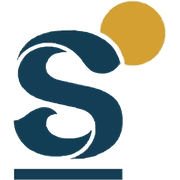
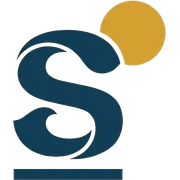
Sudcalia: usar los PNG oficiales como logotipos del sitio
Reemplaza las versiones WebP (sacadas del SVG trazado) por los PNG
originales, que son más nítidos. Al blanco del fondo y de los huecos
de las letras se le dio transparencia; los blancos del diseño, como
el triángulo de Play, las perforaciones y las hojas del libro, se
conservan. Favicon e ícono para iPhone salen del mismo PNG.

Claude-Session: https://claude.ai/code/session_01DFYdjbPiCd73oKEhiD5LBw

diff --git a/sudcalia/index.html b/sudcalia/index.html
@@ -17,7 +17,7 @@
 <a class="oculto" href="#contenido">Saltar al contenido</a>
 <header class="cabecera">
   <div class="contenedor">
-    <a class="marca" href="index.html"><img src="assets/logos/sudcalia-simbolo.webp" alt=""><span>Sudcalia</span></a>
+    <a class="marca" href="index.html"><img src="assets/logos/sudcalia-simbolo.png" alt=""><span>Sudcalia</span></a>
     <button class="menu-boton" aria-expanded="false" aria-controls="menu">Menú</button>
     <ul class="menu" id="menu"><li><a href="index.html" aria-current="page">Inicio</a></li><li><a href="ediciones.html">Ediciones</a></li><li><a href="estudios.html">Estudios</a></li><li><a href="play.html">Play</a></li><li><a href="games.html">Games</a></li><li><a href="https://rhinobuild.github.io" target="_blank" rel="noopener">RHINOBUILD</a></li></ul>
   </div>
@@ -31,7 +31,7 @@
       <p class="lead">Sudcalia reúne libros, series animadas, videojuegos y software para empresas. Cinco líneas nacidas frente al Mar de Cortés.</p>
       <div class="botones"><a class="boton" href="#lineas">Conoce Sudcalia</a><a class="boton secundario" href="#registro">Recibe novedades</a></div>
     </div>
-    <img class="simbolo" src="assets/logos/sudcalia-simbolo.webp" alt="Símbolo de Sudcalia: una S azul con un sol dorado">
+    <img class="simbolo" src="assets/logos/sudcalia-simbolo.png" alt="Símbolo de Sudcalia: una S azul con un sol dorado">
   </div>
 </section>
 
@@ -39,10 +39,10 @@
   <div class="contenedor">
     <div class="intro"><span class="etiqueta">Nuestras líneas</span><h2>Una casa, cinco maneras de contar y construir.</h2><p class="suave">Cada línea tiene su propio estilo, pero todas comparten el mismo sol.</p></div>
     <div class="rejilla cinco">
-      <a class="tarjeta" href="ediciones.html"><div class="logo" style="background:#F7F1E3"><img src="assets/logos/ediciones-simbolo.webp" alt=""></div><span class="estado activo">Saga terminada</span><h3>Sudcalia Ediciones</h3><p>Libros propios. Empezamos con La Saga de los Robles Eternos: cuatro libros y el primero gratis.</p><span class="ir">Ver la saga →</span></a>
-      <a class="tarjeta" href="estudios.html"><div class="logo" style="background:#FBF4EC"><img src="assets/logos/estudios-simbolo.webp" alt=""></div><span class="estado">En producción</span><h3>Sudcalia Estudios</h3><p>Series y videonovelas animadas. Aquí se hacen las historias.</p><span class="ir">Ver el estudio →</span></a>
-      <a class="tarjeta" href="play.html"><div class="logo" style="background:#0C0F14"><img src="assets/logos/play-simbolo.webp" alt=""></div><span class="estado">Próximamente</span><h3>Sudcalia Play</h3><p>Nuestra plataforma para ver las series de Estudios, en cualquier pantalla.</p><span class="ir">Conocer Play →</span></a>
-      <a class="tarjeta" href="games.html"><div class="logo" style="background:#2B0F2E"><img src="assets/logos/games-simbolo.webp" alt=""></div><span class="estado">Próximamente</span><h3>Sudcalia Games</h3><p>Juegos cortos para Android. Partidas rápidas, pique largo.</p><span class="ir">Ver Games →</span></a>
+      <a class="tarjeta" href="ediciones.html"><div class="logo" style="background:#F7F1E3"><img src="assets/logos/ediciones-simbolo.png" alt=""></div><span class="estado activo">Saga terminada</span><h3>Sudcalia Ediciones</h3><p>Libros propios. Empezamos con La Saga de los Robles Eternos: cuatro libros y el primero gratis.</p><span class="ir">Ver la saga →</span></a>
+      <a class="tarjeta" href="estudios.html"><div class="logo" style="background:#FBF4EC"><img src="assets/logos/estudios-simbolo.png" alt=""></div><span class="estado">En producción</span><h3>Sudcalia Estudios</h3><p>Series y videonovelas animadas. Aquí se hacen las historias.</p><span class="ir">Ver el estudio →</span></a>
+      <a class="tarjeta" href="play.html"><div class="logo" style="background:#0C0F14"><img src="assets/logos/play-simbolo.png" alt=""></div><span class="estado">Próximamente</span><h3>Sudcalia Play</h3><p>Nuestra plataforma para ver las series de Estudios, en cualquier pantalla.</p><span class="ir">Conocer Play →</span></a>
+      <a class="tarjeta" href="games.html"><div class="logo" style="background:#2B0F2E"><img src="assets/logos/games-simbolo.png" alt=""></div><span class="estado">Próximamente</span><h3>Sudcalia Games</h3><p>Juegos cortos para Android. Partidas rápidas, pique largo.</p><span class="ir">Ver Games →</span></a>
       <a class="tarjeta" href="https://rhinobuild.github.io" target="_blank" rel="noopener"><div class="logo" style="background:#fff"><img src="assets/logos/rhinobuild.jpg" alt="" style="height:auto;width:92%"></div><span class="estado activo">Activo</span><h3>RHINOBUILD</h3><p>Plataformas digitales y software de Recursos Humanos para empresas. Una empresa Sudcalia.</p><span class="ir">Ir a RHINOBUILD ↗</span></a>
     </div>
   </div>

diff --git a/sudcalia/404.html b/sudcalia/404.html
@@ -17,13 +17,13 @@
 <a class="oculto" href="#contenido">Saltar al contenido</a>
 <header class="cabecera">
   <div class="contenedor">
-    <a class="marca" href="index.html"><img src="assets/logos/sudcalia-simbolo.webp" alt=""><span>Sudcalia</span></a>
+    <a class="marca" href="index.html"><img src="assets/logos/sudcalia-simbolo.png" alt=""><span>Sudcalia</span></a>
     <button class="menu-boton" aria-expanded="false" aria-controls="menu">Menú</button>
     <ul class="menu" id="menu"><li><a href="index.html">Inicio</a></li><li><a href="ediciones.html">Ediciones</a></li><li><a href="estudios.html">Estudios</a></li><li><a href="play.html">Play</a></li><li><a href="games.html">Games</a></li><li><a href="https://rhinobuild.github.io" target="_blank" rel="noopener">RHINOBUILD</a></li></ul>
   </div>
 </header>
 <main id="contenido">
-<section class="heroe"><div class="contenedor"><div><span class="etiqueta">Error 404</span><h1>Esta página se fue con la marea.</h1><p class="lead">No encontramos lo que buscabas, pero el sol sigue en su lugar.</p><a class="boton" href="index.html">Volver al inicio</a></div><img class="simbolo" src="assets/logos/sudcalia-simbolo.webp" alt=""></div></section>
+<section class="heroe"><div class="contenedor"><div><span class="etiqueta">Error 404</span><h1>Esta página se fue con la marea.</h1><p class="lead">No encontramos lo que buscabas, pero el sol sigue en su lugar.</p><a class="boton" href="index.html">Volver al inicio</a></div><img class="simbolo" src="assets/logos/sudcalia-simbolo.png" alt=""></div></section>
 </main>
 <footer class="pie">
   <div class="contenedor">

diff --git a/sudcalia/estudios.html b/sudcalia/estudios.html
@@ -17,7 +17,7 @@
 <a class="oculto" href="#contenido">Saltar al contenido</a>
 <header class="cabecera">
   <div class="contenedor">
-    <a class="marca" href="index.html"><img src="assets/logos/estudios-simbolo.webp" alt=""><span>Sudcalia<small>Estudios</small></span></a>
+    <a class="marca" href="index.html"><img src="assets/logos/estudios-simbolo.png" alt=""><span>Sudcalia<small>Estudios</small></span></a>
     <button class="menu-boton" aria-expanded="false" aria-controls="menu">Menú</button>
     <ul class="menu" id="menu"><li><a href="index.html">Inicio</a></li><li><a href="ediciones.html">Ediciones</a></li><li><a href="estudios.html" aria-current="page">Estudios</a></li><li><a href="play.html">Play</a></li><li><a href="games.html">Games</a></li><li><a href="https://rhinobuild.github.io" target="_blank" rel="noopener">RHINOBUILD</a></li></ul>
   </div>
@@ -31,7 +31,7 @@
       <p class="lead">Series y videonovelas animadas, producidas en Baja California Sur. Nuestro primer proyecto: llevar La Saga de los Robles Eternos a la pantalla.</p>
       <div class="botones"><a class="boton" href="#proyecto">Ver el proyecto</a><a class="boton secundario" href="#registro">Seguir la producción</a></div>
     </div>
-    <img class="simbolo" src="assets/logos/estudios-simbolo.webp" alt="Símbolo de Sudcalia Estudios">
+    <img class="simbolo" src="assets/logos/estudios-simbolo.png" alt="Símbolo de Sudcalia Estudios">
   </div>
 </section>
 <section id="proyecto" class="banda">

diff --git a/sudcalia/ediciones.html b/sudcalia/ediciones.html
@@ -17,7 +17,7 @@
 <a class="oculto" href="#contenido">Saltar al contenido</a>
 <header class="cabecera">
   <div class="contenedor">
-    <a class="marca" href="index.html"><img src="assets/logos/ediciones-simbolo.webp" alt=""><span>Sudcalia<small>Ediciones</small></span></a>
+    <a class="marca" href="index.html"><img src="assets/logos/ediciones-simbolo.png" alt=""><span>Sudcalia<small>Ediciones</small></span></a>
     <button class="menu-boton" aria-expanded="false" aria-controls="menu">Menú</button>
     <ul class="menu" id="menu"><li><a href="index.html">Inicio</a></li><li><a href="ediciones.html" aria-current="page">Ediciones</a></li><li><a href="estudios.html">Estudios</a></li><li><a href="play.html">Play</a></li><li><a href="games.html">Games</a></li><li><a href="https://rhinobuild.github.io" target="_blank" rel="noopener">RHINOBUILD</a></li></ul>
   </div>
@@ -31,7 +31,7 @@
       <p class="lead">Cuatro libros y una misma lluvia. La saga empieza con <em>Bajo la lluvia de los robles</em>, y el primer libro es gratis.</p>
       <div class="botones"><a class="boton" href="#saga">Ver los cuatro libros</a><a class="boton secundario" href="#registro">Avísame del lanzamiento</a></div>
     </div>
-    <img class="simbolo" src="assets/logos/ediciones-simbolo.webp" alt="Símbolo de Sudcalia Ediciones">
+    <img class="simbolo" src="assets/logos/ediciones-simbolo.png" alt="Símbolo de Sudcalia Ediciones">
   </div>
 </section>
 <section id="saga" class="banda">

diff --git a/sudcalia/play.html b/sudcalia/play.html
@@ -17,7 +17,7 @@
 <a class="oculto" href="#contenido">Saltar al contenido</a>
 <header class="cabecera">
   <div class="contenedor">
-    <a class="marca" href="index.html"><img src="assets/logos/play-simbolo.webp" alt=""><span>Sudcalia<small>Play</small></span></a>
+    <a class="marca" href="index.html"><img src="assets/logos/play-simbolo.png" alt=""><span>Sudcalia<small>Play</small></span></a>
     <button class="menu-boton" aria-expanded="false" aria-controls="menu">Menú</button>
     <ul class="menu" id="menu"><li><a href="index.html">Inicio</a></li><li><a href="ediciones.html">Ediciones</a></li><li><a href="estudios.html">Estudios</a></li><li><a href="play.html" aria-current="page">Play</a></li><li><a href="games.html">Games</a></li><li><a href="https://rhinobuild.github.io" target="_blank" rel="noopener">RHINOBUILD</a></li></ul>
   </div>
@@ -31,7 +31,7 @@
       <p class="lead">La plataforma donde verás las series y videonovelas de Sudcalia Estudios, en tu celular, tu computadora o tu tele.</p>
       <div class="botones"><a class="boton" href="#registro">Quiero acceso anticipado</a><a class="boton secundario" href="#catalogo">Ver lo que viene</a></div>
     </div>
-    <img class="simbolo" src="assets/logos/play-simbolo.webp" alt="Símbolo de Sudcalia Play">
+    <img class="simbolo" src="assets/logos/play-simbolo.png" alt="Símbolo de Sudcalia Play">
   </div>
 </section>
 <section id="catalogo" class="banda">

diff --git a/sudcalia/games.html b/sudcalia/games.html
@@ -17,7 +17,7 @@
 <a class="oculto" href="#contenido">Saltar al contenido</a>
 <header class="cabecera">
   <div class="contenedor">
-    <a class="marca" href="index.html"><img src="assets/logos/games-simbolo.webp" alt=""><span>Sudcalia<small>Games</small></span></a>
+    <a class="marca" href="index.html"><img src="assets/logos/games-simbolo.png" alt=""><span>Sudcalia<small>Games</small></span></a>
     <button class="menu-boton" aria-expanded="false" aria-controls="menu">Menú</button>
     <ul class="menu" id="menu"><li><a href="index.html">Inicio</a></li><li><a href="ediciones.html">Ediciones</a></li><li><a href="estudios.html">Estudios</a></li><li><a href="play.html">Play</a></li><li><a href="games.html" aria-current="page">Games</a></li><li><a href="https://rhinobuild.github.io" target="_blank" rel="noopener">RHINOBUILD</a></li></ul>
   </div>
@@ -31,7 +31,7 @@
       <p class="lead">Videojuegos rápidos para Android, hechos en Baja California Sur. Partidas de minutos que no vas a poder soltar.</p>
       <div class="botones"><a class="boton" href="#registro">Quiero probarlos</a><a class="boton secundario" href="#juegos">Lo que viene</a></div>
     </div>
-    <img class="simbolo" src="assets/logos/games-simbolo.webp" alt="Símbolo de Sudcalia Games">
+    <img class="simbolo" src="assets/logos/games-simbolo.png" alt="Símbolo de Sudcalia Games">
   </div>
 </section>
 <section id="juegos" class="banda">

diff --git a/sudcalia/privacidad.html b/sudcalia/privacidad.html
@@ -17,7 +17,7 @@
 <a class="oculto" href="#contenido">Saltar al contenido</a>
 <header class="cabecera">
   <div class="contenedor">
-    <a class="marca" href="index.html"><img src="assets/logos/sudcalia-simbolo.webp" alt=""><span>Sudcalia</span></a>
+    <a class="marca" href="index.html"><img src="assets/logos/sudcalia-simbolo.png" alt=""><span>Sudcalia</span></a>
     <button class="menu-boton" aria-expanded="false" aria-controls="menu">Menú</button>
     <ul class="menu" id="menu"><li><a href="index.html">Inicio</a></li><li><a href="ediciones.html">Ediciones</a></li><li><a href="estudios.html">Estudios</a></li><li><a href="play.html">Play</a></li><li><a href="games.html">Games</a></li><li><a href="https://rhinobuild.github.io" target="_blank" rel="noopener">RHINOBUILD</a></li></ul>
   </div>

diff --git a/sudcalia/README.md b/sudcalia/README.md
@@ -16,7 +16,7 @@ Es HTML estático, listo para **GitHub Pages**. Los registros de interesados se 
 | `404.html` | Página de error |
 | `assets/js/config.js` | **El único archivo que tienes que editar**: URL de Apps Script, enlaces de los libros, redes |
 | `assets/css/sudcalia.css` | Estilos con la paleta del Manual de Marca v3.0 |
-| `assets/logos/` | Logotipos oficiales v4 en WebP transparente, más versiones solo con el símbolo |
+| `assets/logos/` | Logotipos oficiales v4 en PNG transparente, más versiones solo con el símbolo |
 | `apps-script/Code.gs` | Backend: guarda los registros en Sheets y te avisa por correo |
 
 ## Puesta en marcha (unos 15 minutos)
